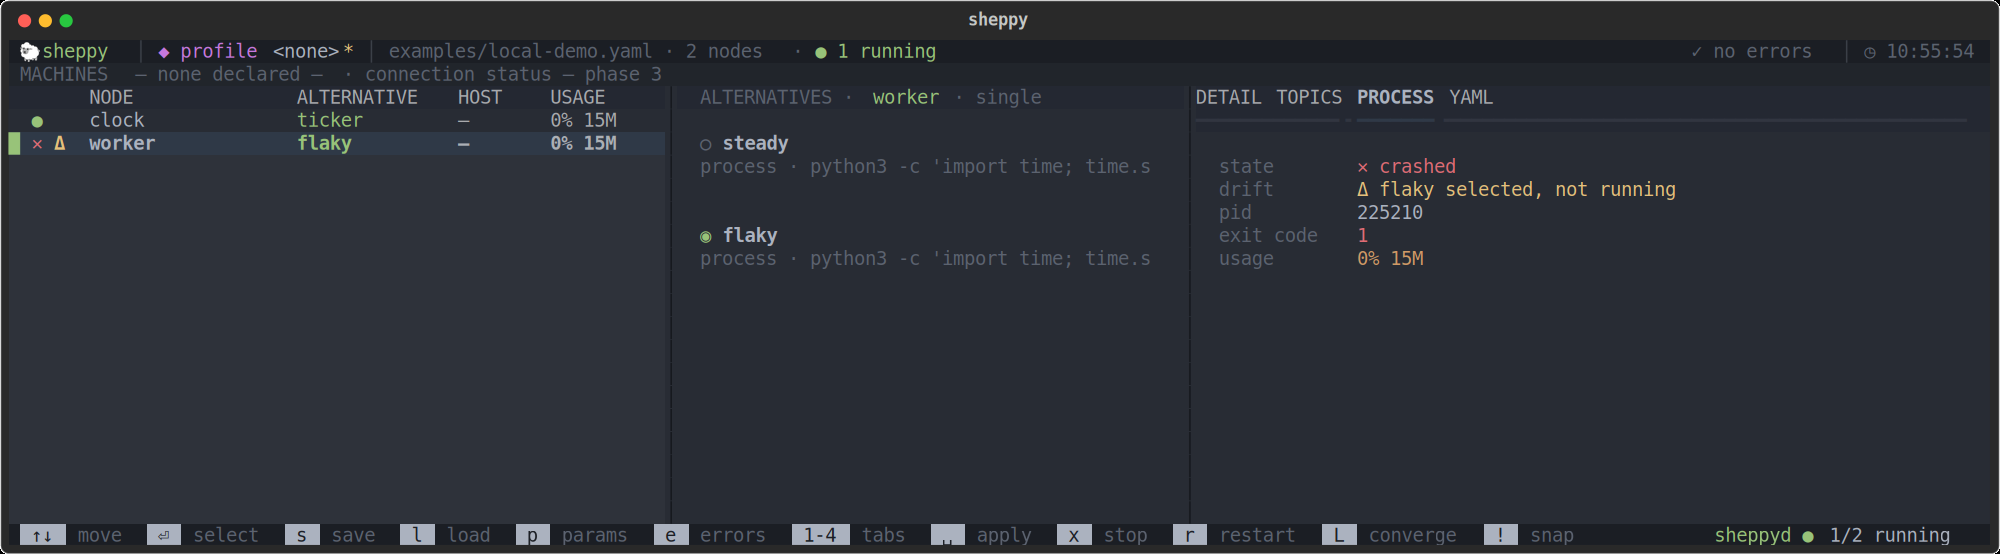
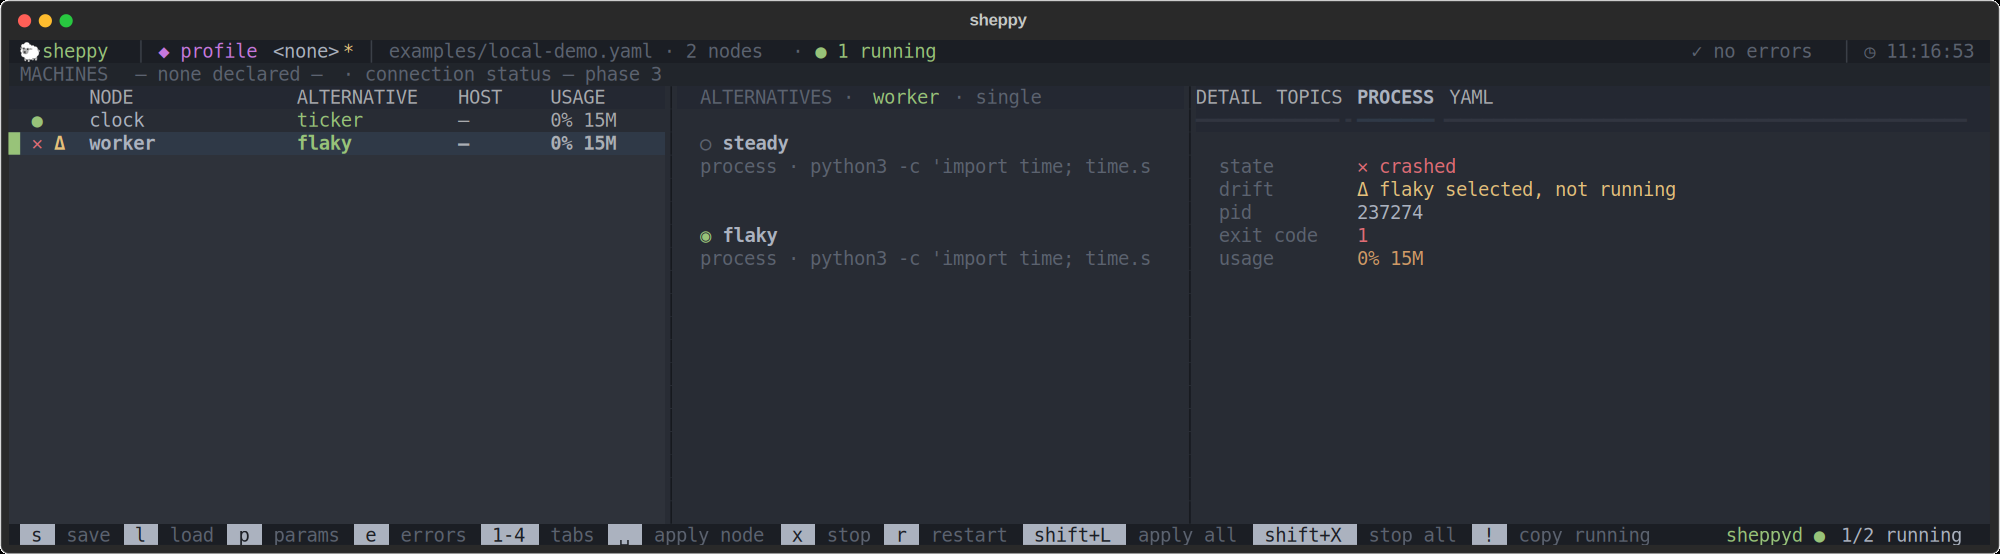
Clearer names for the footer key hints (#31)
space is "apply node", shift+L "apply all", ! "copy running", and shift+X
"stop all" is now listed. Capital-letter keys show as shift+L / shift+X.
The move/select hints are dropped and hint spacing tightened so the footer
still fits in ~170 columns. The plan dialog and copy-running warnings use
the same names. Docs and screenshots updated.

Closes #31.

Changed region(s): [[0.0, 0.9206, 0.992, 0.9819], [0.465, 0.0307, 0.527, 0.0614], [0.682, 0.3682, 0.713, 0.3989]]

diff --git a/sheppy/tui/app.py b/sheppy/tui/app.py
@@ -51,12 +51,12 @@ class SheppyApp(App):
         ("2", "show_tab('tab-topics')", "Topics"),
         ("3", "show_tab('tab-process')", "Process"),
         ("4", "show_tab('tab-yaml')", "YAML"),
-        ("space", "converge_node", "Apply"),
+        ("space", "converge_node", "Apply node"),
         ("x", "stop_node", "Stop"),
         ("r", "restart_node", "Restart"),
-        ("L", "converge_all", "Converge"),
+        ("L", "converge_all", "Apply all"),
         ("X", "stop_all", "Stop all"),
-        ("exclamation_mark", "snapshot", "Snapshot"),
+        ("exclamation_mark", "snapshot", "Copy running"),
     ]
     show_errors = reactive(False)
 
@@ -358,7 +358,7 @@ class SheppyApp(App):
         if not self.state or not self.manifest:
             return
         if not self.daemon_connected:
-            self._append_warnings(["sheppyd offline — nothing to snapshot"])
+            self._append_warnings(["sheppyd offline — nothing running to copy"])
             return
         selections, overrides, skipped = self._selections_from_actual(
             ("launching", "running"))
@@ -367,7 +367,7 @@ class SheppyApp(App):
         self.state.is_dirty = True
         if skipped:
             self._append_warnings(
-                [f"snapshot skipped (not in manifest): {', '.join(skipped)}"])
+                [f"copy running skipped (not in manifest): {', '.join(skipped)}"])
         self._rebuild_after_apply()
         self._refresh_runtime()
 

diff --git a/sheppy/tui/widgets/status_footer.py b/sheppy/tui/widgets/status_footer.py
@@ -6,18 +6,17 @@ from sheppy.tui.widgets.theme import c
 # Single source of truth for the footer key hints (display only; the actual
 # bindings live on the app).
 KEYMAP = [
-    ("↑↓", "move"),
-    ("⏎", "select"),
     ("s", "save"),
     ("l", "load"),
     ("p", "params"),
     ("e", "errors"),
     ("1-4", "tabs"),
-    ("␣", "apply"),
+    ("␣", "apply node"),
     ("x", "stop"),
     ("r", "restart"),
-    ("L", "converge"),
-    ("!", "snap"),
+    ("shift+L", "apply all"),
+    ("shift+X", "stop all"),
+    ("!", "copy running"),
 ]
 
 
@@ -26,7 +25,7 @@ class StatusFooter(Horizontal):
 
     DEFAULT_CSS = """
     StatusFooter { height: 1; background: $panel; padding: 0 1; }
-    StatusFooter > Static { width: auto; height: 1; margin: 0 2 0 0; }
+    StatusFooter > Static { width: auto; height: 1; margin: 0 1 0 0; }
     StatusFooter #sf-spring { width: 1fr; margin: 0; }
     """
 

diff --git a/sheppy/tui/daemon_modals.py b/sheppy/tui/daemon_modals.py
@@ -18,7 +18,7 @@ class ConvergeModal(ModalScreen[bool]):
 
     def compose(self) -> ComposeResult:
         with Vertical(id="dialog"):
-            yield Static(c("fg", f"converge — {len(self._actions)} action(s)"))
+            yield Static(c("fg", f"apply all — {len(self._actions)} action(s)"))
             for verb, node in self._actions:
                 # Whole line in one color span: c() escapes the joined text,
                 # so a color-tag boundary can never split "verb node" and

diff --git a/tests/tui/widgets/test_status_footer.py b/tests/tui/widgets/test_status_footer.py
@@ -17,7 +17,8 @@ async def test_footer_shows_keymap_and_daemon_placeholder():
 
 def test_keymap_covers_core_actions():
     labels = {label for _, label in KEYMAP}
-    assert {"save", "load", "params", "errors", "apply", "stop"} <= labels
+    assert {"save", "load", "params", "errors", "apply node", "stop",
+            "apply all", "stop all", "copy running"} <= labels
 
 
 async def test_set_daemon_connected_shows_running_count():
